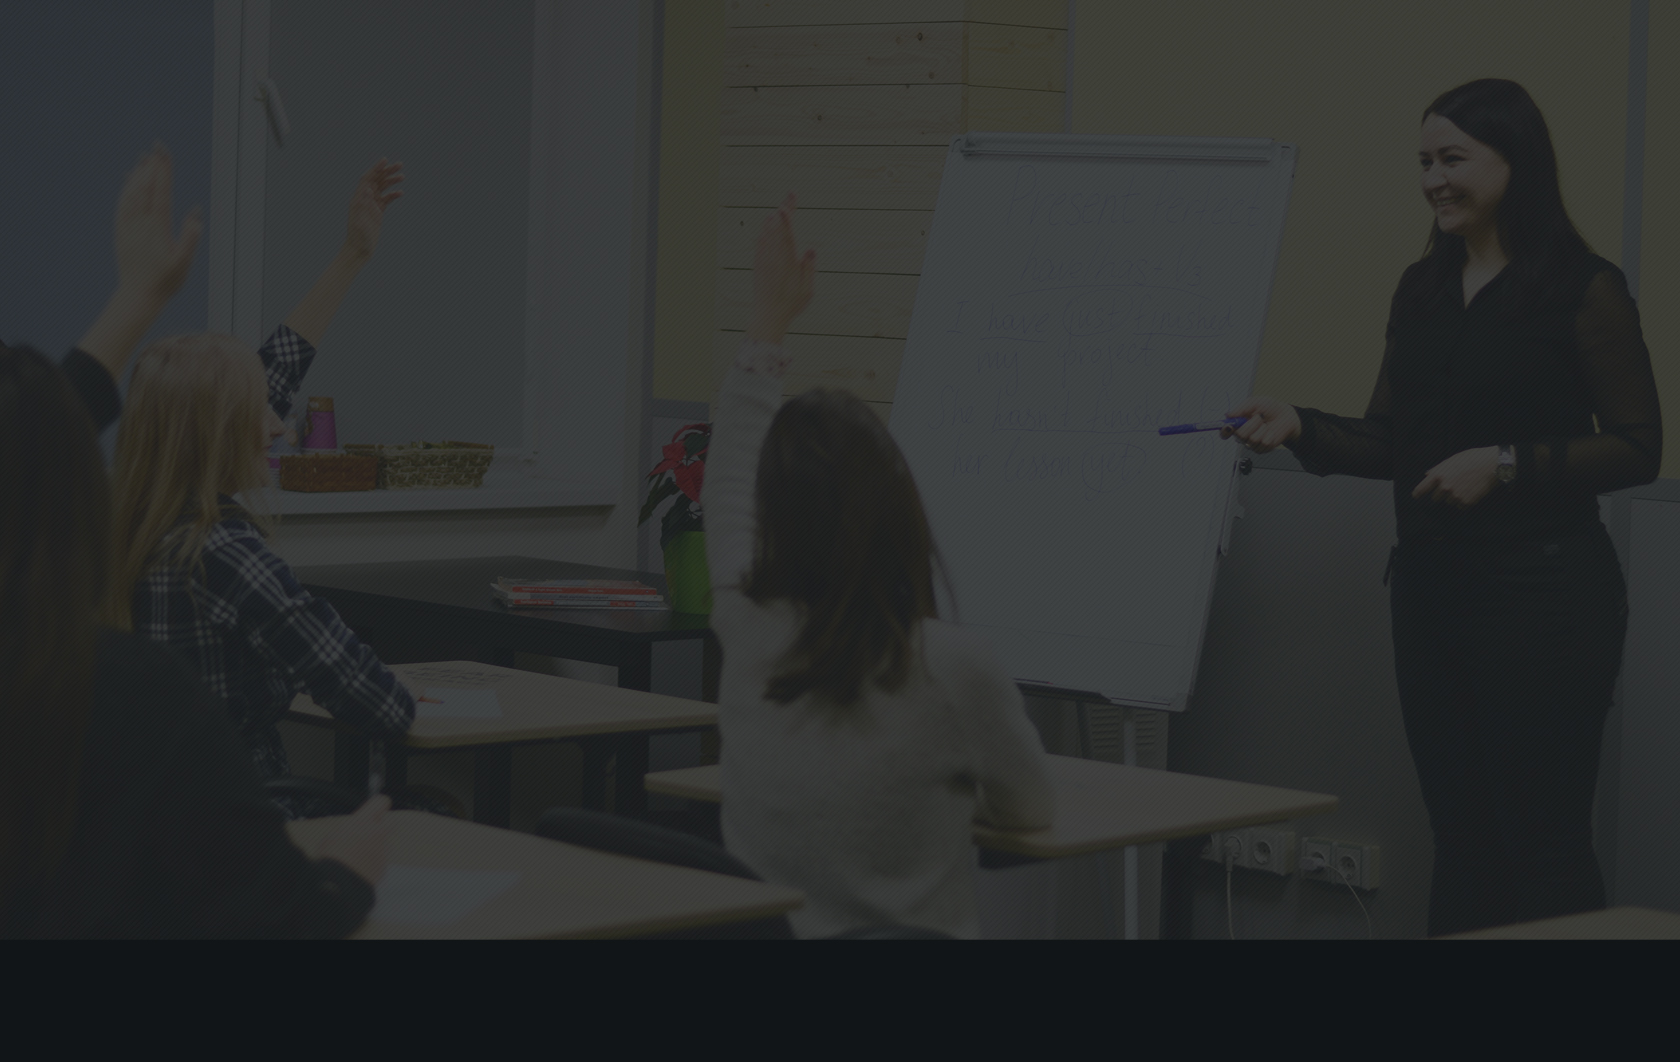
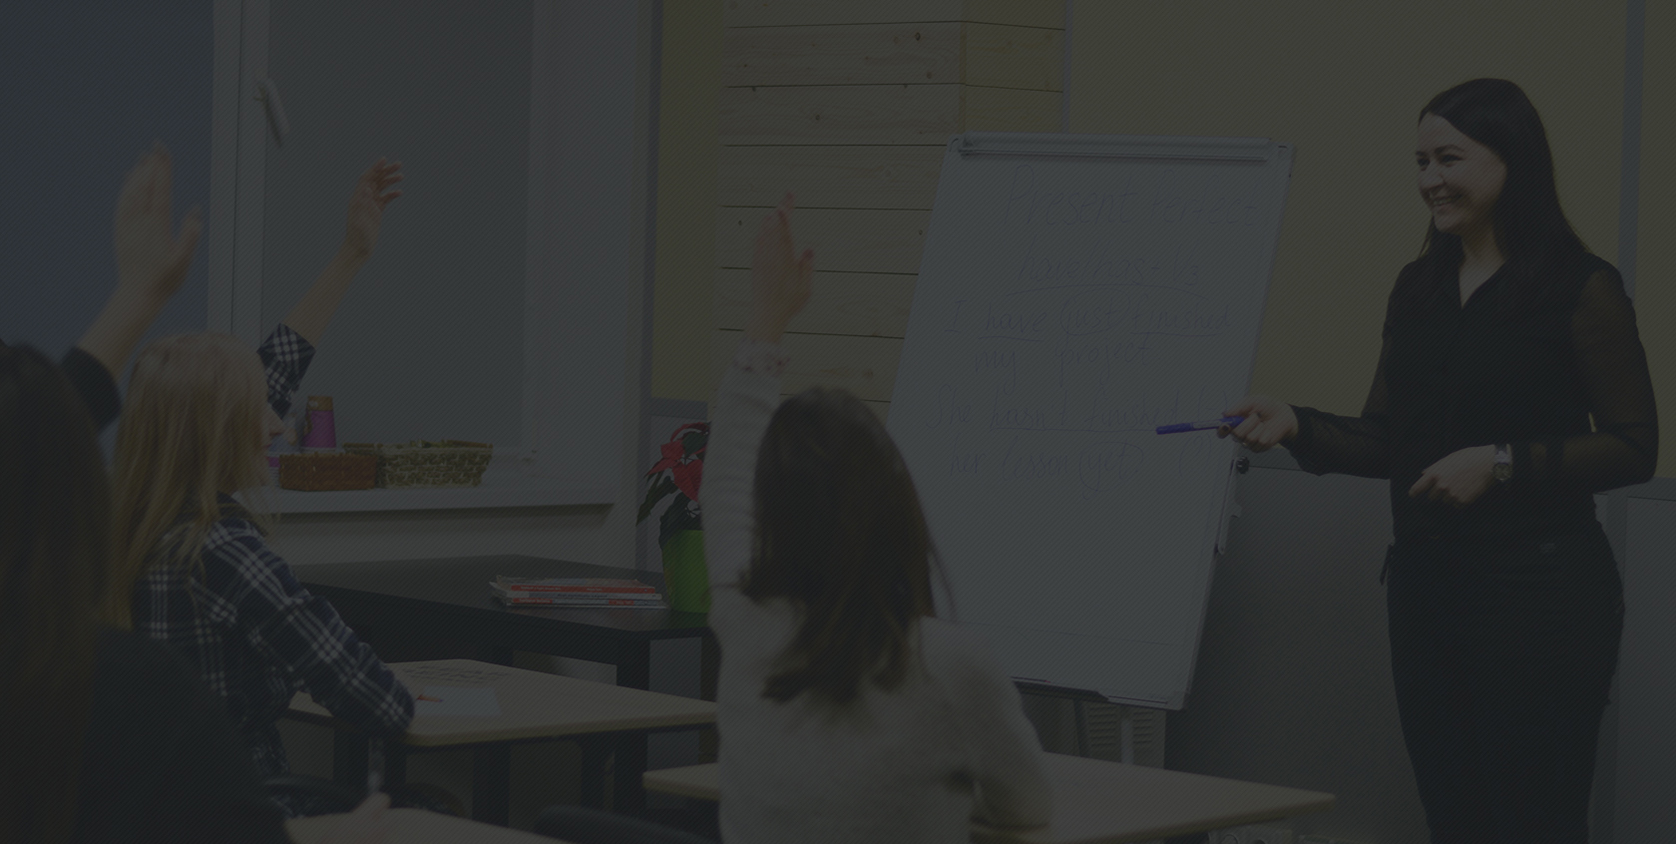
reg-form done, reg-form images changed

diff --git a/src/sass/components/form.scss b/src/sass/components/form.scss
@@ -1,0 +1,57 @@
+.form {
+    background-image: url(../images/photos/form-img@1x.jpg);
+    background-repeat: no-repeat;
+    background-size: cover;
+    background-position-x: 80%;
+    color: $white-txt-color;
+    max-width: rem(320);
+    margin: auto;
+    text-align: center;
+    height: 538px;
+}
+
+.form__heading {
+    font-size: rem(14);
+    line-height: rem(24);
+    font-weight: 700;
+    max-width: rem(210);
+    margin: 0 auto rem(26);
+    padding-top: rem(46);
+}
+
+.form__text {
+    font-size: rem(11);
+    line-height: rem(20);
+    font-weight: 500;
+    max-width: rem(250);
+    margin: 0 auto rem(26);
+}
+
+.form__input {
+    display: flex;
+    justify-content: center;
+    width: rem(280);
+    height: rem(50);    
+    border: rem(1) solid $white-bg-color;
+    background-color: transparent;
+    padding-left: rem(20);
+    margin: 0 auto rem(20);
+}
+
+.input__phone {
+    margin-bottom: rem(0);
+}
+
+.text_orange {
+    color: $orange-txt-color;
+}
+
+.form__input::placeholder {
+    color: $white-txt-color;
+    font-size: rem(13);
+    font-weight: 600;
+}
+
+.btn_form {
+    margin: rem(56) auto rem(58);
+}

diff --git a/src/html/form.html b/src/html/form.html
@@ -1,0 +1,11 @@
+<section class="container form">
+    <h3 class="form__heading">
+        Регистрация на <span class="text_orange form__text_orange">бесплатную</span> телефонную <span class="text_orange form__text_orange"> консультацию </span> <br>по нюансам ЗНО <br>по английскому языку
+    </h3>
+    <p class="form__text">Оставь заявку на участие в <span class="text_orange form__text_orange">бесплатном занятии.</span> С вами свяжется консультант и ответит на вопросы.</p>
+    <form class="" action="#">
+        <input type="text" class="form__input input__name" placeholder="Имя*">
+        <input type="text" class="form__input input__phone" placeholder="Телефон*">
+        <button class="btn btn_orange btn_form">Хочу на бесплатное занятие</button>
+    </form>
+</section>

diff --git a/src/sass/components/button.scss b/src/sass/components/button.scss
@@ -1,0 +1,17 @@
+.btn {
+    width: 250px;
+    height: 48px;
+    font-family: Tahoma, Geneva, Verdana, sans-serif;
+    text-transform: uppercase;
+    border: none;
+    font-size: 11px;
+    font-weight: bold;
+    letter-spacing: 1px;
+    display: flex;
+    justify-content: center;
+}
+
+.btn_orange {
+    background-color: $grad-color-end;
+    color: $white-txt-color;
+}

diff --git a/src/sass/main.scss b/src/sass/main.scss
@@ -19,7 +19,7 @@
 @import 'layout/footer';
 
 // Components
-@import 'components/logo';
+@import 'components/logo';  
 @import 'components/form';
 @import 'components/button';
 @import 'components/riviews-slider';
